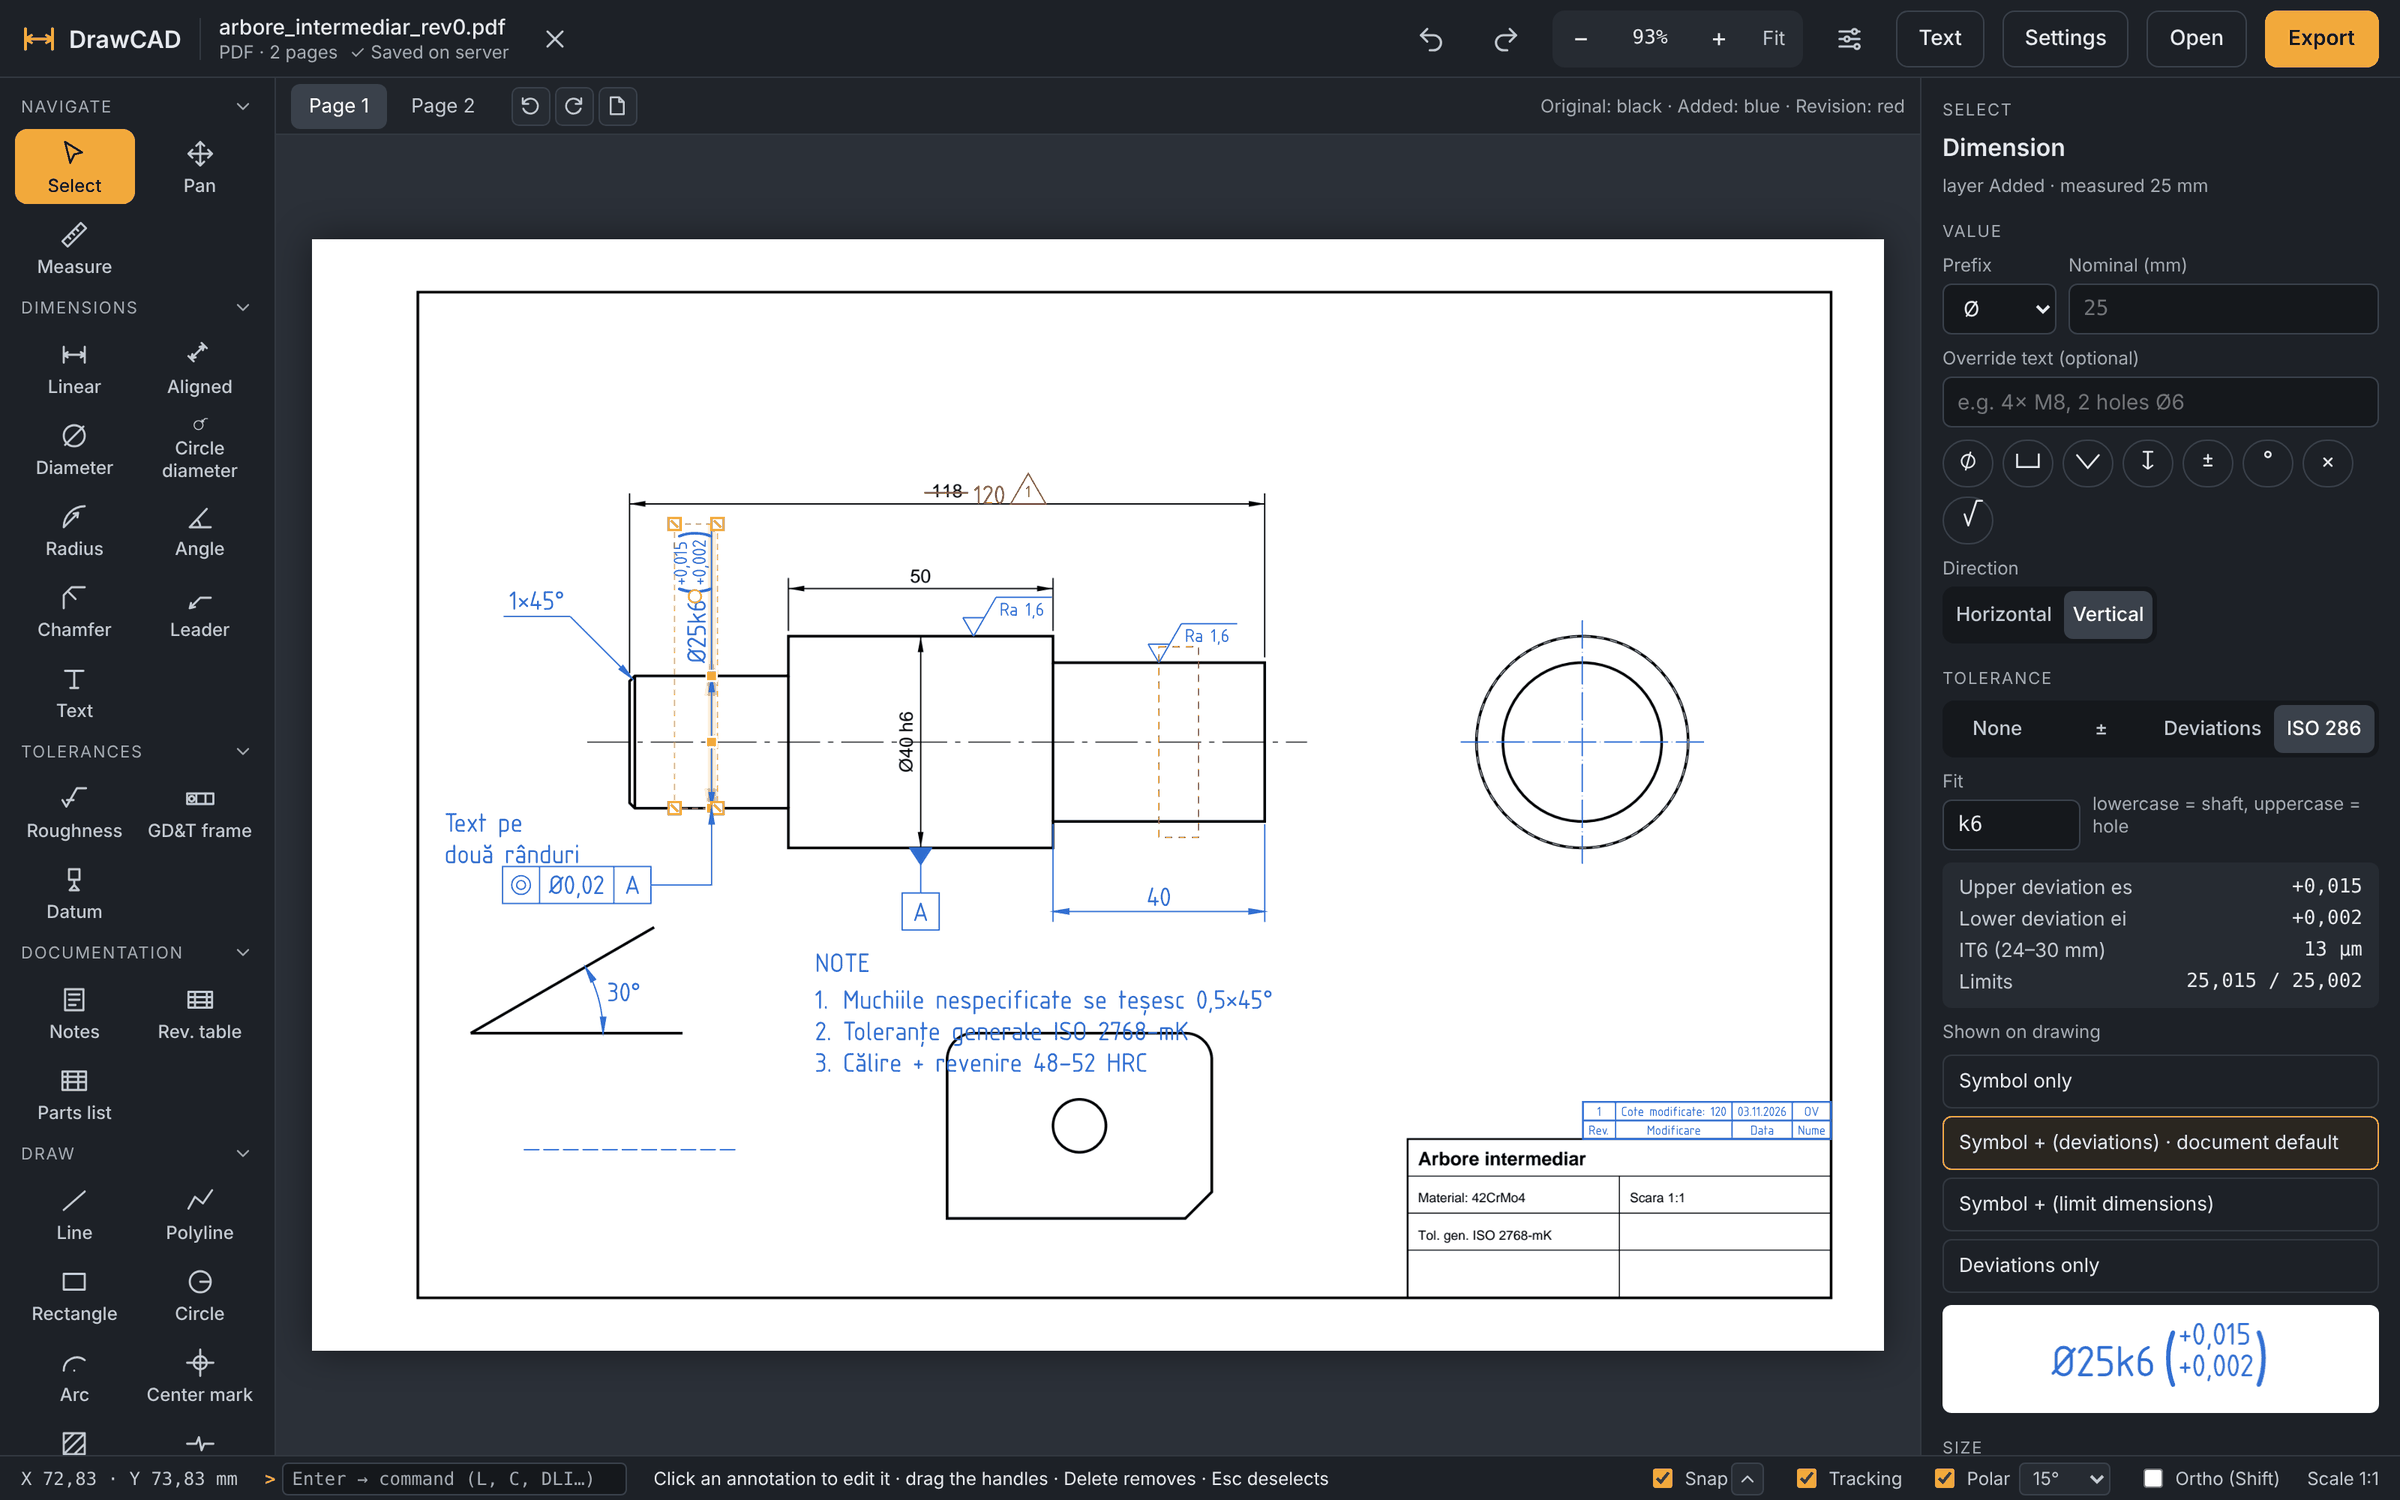
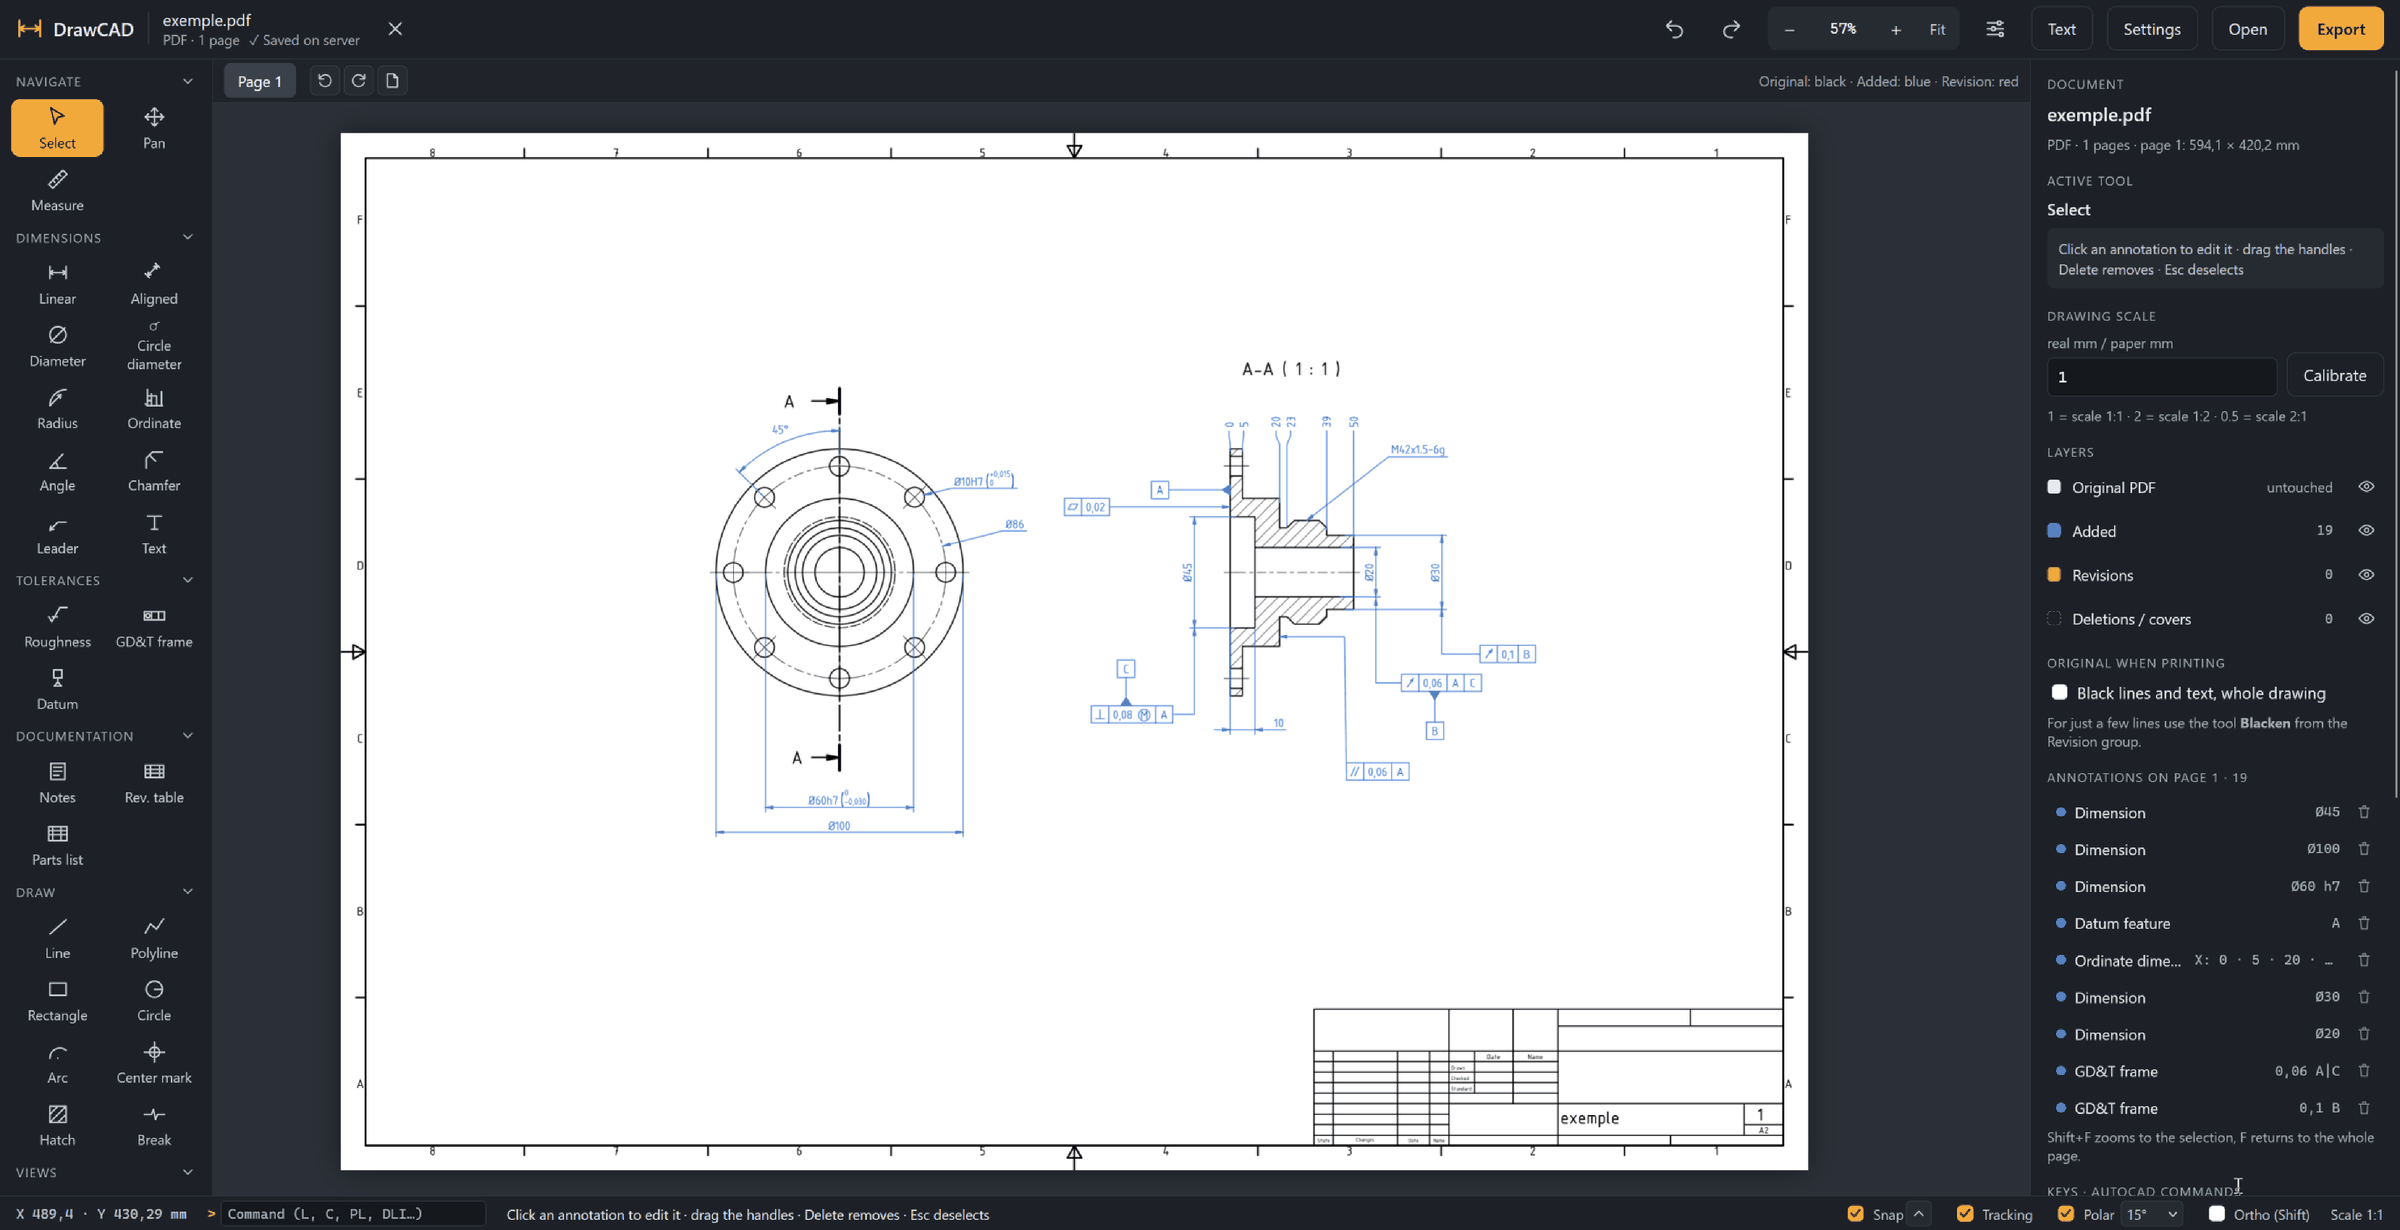
README: new screenshot (flange drawing dimensioned in DrawCAD)
Claude-Session: https://claude.ai/code/session_01AdCVAR259i6ohe7iDhHr63

diff --git a/README.md b/README.md
@@ -14,7 +14,7 @@ Self-hosted, runs in your browser, no CAD license needed.
 [![Release](https://img.shields.io/github/v/release/movidiu64/DrawCAD?include_prereleases)](https://github.com/movidiu64/DrawCAD/releases)
 ![UI: English | Română](https://img.shields.io/badge/UI-English%20%7C%20Rom%C3%A2n%C4%83-lightgrey)
 
-<img src="docs/screenshot.png" alt="DrawCAD editor with dimensions, ISO 286 fit, GD&T and a revision on a shaft drawing" width="100%">
+<img src="docs/screenshot.png" alt="DrawCAD editor: a flange drawing dimensioned in DrawCAD with ISO 286 fits, GD&T frames, datums and ordinate dimensions" width="100%">
 
 </div>
 
